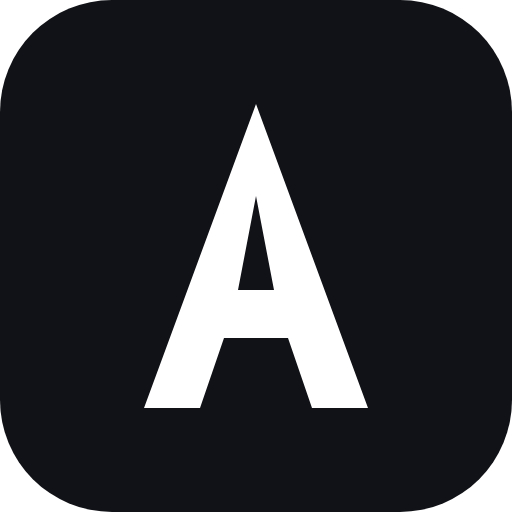
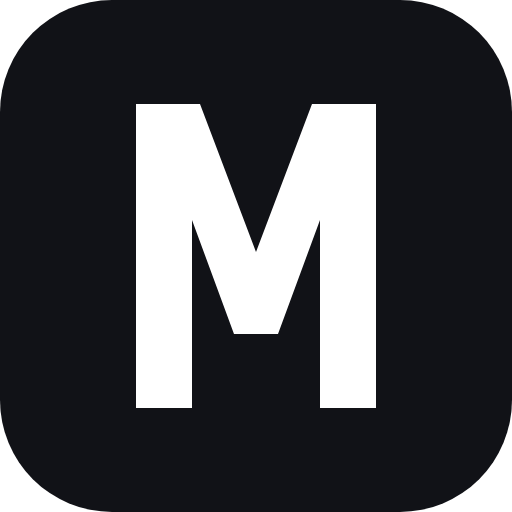
Maham Tasks: rename the task portal from Almailgroup to Maham Tasks
Every name people see: the page titles and installed-app name, the brand
in the header and sign-in pages (مهام تاسكس in Arabic, under Maham One),
the letter mark and icons (an M in the same style as the A), the assistant
(Maham AI), push and Telegram messages, admin alerts, the authenticator
entry for new two-step setups, the AI Worker's prompt and the README.

Storage keys, cookie and header names, the Worker's name and the
environment variable names stay as they were, so nobody loses saved
settings or offline work. The service worker's cache is bumped so
installed apps fetch the new icons.

Claude-Session: https://claude.ai/code/session_018J5FuxQiAhfQ43VxPpANvw

Changed region(s): [[0.25, 0.1875, 0.75, 0.8125]]

diff --git a/Maham Tasks/src/lib/i18n/ar.ts b/Maham Tasks/src/lib/i18n/ar.ts
@@ -10,8 +10,8 @@ import type { Dictionary } from "./index";
  */
 export const ar: Dictionary = {
   // ---- shell ---------------------------------------------------------------
-  "shell.brand": "المجموعة الأهلية",
-  "shell.tagline": "بوابة المهام",
+  "shell.brand": "مهام تاسكس",
+  "shell.tagline": "مهام ون",
   "shell.skip": "الانتقال إلى المحتوى",
   "shell.language": "اللغة",
   "shell.search": "بحث",
@@ -59,7 +59,7 @@ export const ar: Dictionary = {
   "nav.noProjects": "لا توجد مشاريع بعد.",
   "nav.createFirstProject": "أنشئ مشروعك الأول للبدء.",
   "nav.selectProject": "اختر مشروعاً",
-  "nav.assistant": "Almail AI",
+  "nav.assistant": "Maham AI",
   "nav.assistantHint": "اسأل عن مهامك",
 
   // ---- command palette --------------------------------------------------------
@@ -225,7 +225,7 @@ export const ar: Dictionary = {
 
   // ---- sign in, sign up, passwords ------------------------------------------------------
   "auth.login.title": "تسجيل الدخول",
-  "auth.login.subtitle": "ادخل إلى مساحة عمل المجموعة الأهلية.",
+  "auth.login.subtitle": "ادخل إلى مساحة عمل مهام تاسكس.",
   "auth.login.prompt": "ليس لديك حساب بعد؟ اطلب من المسؤول إضافتك.",
   "auth.forgot.title": "إعادة تعيين كلمة المرور",
   "auth.forgot.subtitle": "سنرسل إليك رابطاً عبر البريد الإلكتروني لتعيين كلمة مرور جديدة.",
@@ -264,7 +264,7 @@ export const ar: Dictionary = {
 
   // ---- landing page -------------------------------------------------------------------
   "landing.title": "بوابة إدارة المهام",
-  "landing.blurb": "المشاريع والمهام والتعاون الفوري لفرق المجموعة الأهلية — مبنية على Next.js وSupabase بواجهة أحادية اللون عن قصد.",
+  "landing.blurb": "المشاريع والمهام والتعاون الفوري لفرقك — مبنية على Next.js وSupabase بواجهة أحادية اللون عن قصد.",
   "landing.taskStatus": "حالات المهام",
   "landing.priorityScale": "سلّم الأولويات",
   "landing.setup": "الإعداد",
@@ -779,15 +779,15 @@ export const ar: Dictionary = {
   "assistant.starter.summary": "أعطني ملخص الحالة",
   "assistant.subtitle": "إجابات من المهام التي يمكنك رؤيتها",
   "assistant.clear": "مسح المحادثة",
-  "assistant.close": "إغلاق Almail AI",
+  "assistant.close": "إغلاق Maham AI",
   "assistant.backToNav": "العودة إلى القائمة",
   "assistant.placeholder": "اسأل عن مهامك…",
-  "assistant.ask": "اسأل Almail AI",
+  "assistant.ask": "اسأل Maham AI",
   "assistant.send": "إرسال",
   "assistant.welcome": "اسألني عن وضع العمل. أقرأ اللوحة نفسها التي تراها، لذا لا أخبرك إلا عن المهام التي لديك صلاحية الوصول إليها.",
   "assistant.youAsked": "سألت: ",
-  "assistant.answered": "أجاب Almail AI: ",
-  "assistant.thinking": "Almail AI يجيب الآن",
+  "assistant.answered": "أجاب Maham AI: ",
+  "assistant.thinking": "Maham AI يجيب الآن",
   "assistant.unreachable": "تعذّر الوصول إلى الخادم. تحقق من اتصالك واسألني مرة أخرى.",
   "brain.noTasks": "لا توجد مهام يمكنني رؤيتها بعد. عندما يُسند إليك عمل سيظهر هنا ويمكنني متابعته.",
   "brain.nothingOverdue": "لا شيء متأخر. كل مهمة لها تاريخ استحقاق ما زالت ضمن موعدها.",
@@ -849,7 +849,7 @@ export const ar: Dictionary = {
   "brain.noDueDateCount_few": "{n} مهام مفتوحة بلا تاريخ استحقاق.",
   "brain.noDueDateCount_many": "{n} مهمة مفتوحة بلا تاريخ استحقاق.",
   "brain.noDueDateCount_other": "{n} مهمة مفتوحة بلا تاريخ استحقاق.",
-  "brain.help": "أنا Almail AI، مساعد هذه البوابة. أرى تماماً المهام التي تراها — لا أكثر.\n\nاسألني أشياء مثل:\n• {q1}\n• {q2}\n• {q3}\n• {q4}\n• {q5}\n\nأي سؤال أكثر انفتاحاً يحتاج إلى نموذجي اللغوي، وهو غير متصل بعد.",
+  "brain.help": "أنا Maham AI، مساعد هذه البوابة. أرى تماماً المهام التي تراها — لا أكثر.\n\nاسألني أشياء مثل:\n• {q1}\n• {q2}\n• {q3}\n• {q4}\n• {q5}\n\nأي سؤال أكثر انفتاحاً يحتاج إلى نموذجي اللغوي، وهو غير متصل بعد.",
   "brain.fallback": "لا أستطيع الإجابة عن هذا بعد — نموذجي اللغوي غير متصل، لذا أتعامل حالياً مع أسئلة المتابعة التي يمكنني عدّها من اللوحة فقط.\n\nجرّب: ما المتأخر، ما المستحق اليوم، على ماذا أعمل تالياً، ما الذي قيد المراجعة، أو ملخص الحالة.",
   "brain.noDueDate": "بدون تاريخ استحقاق",
   "brain.due": "تستحق {date}",
@@ -964,7 +964,7 @@ export const ar: Dictionary = {
   "auth.serviceDown": "خدمة تسجيل الدخول لا تستجيب حالياً. لا خطأ في بياناتك — انتظر لحظة وحاول مرة أخرى.",
   "action.noPermissionReschedule": "ليست لديك صلاحية إعادة جدولة هذه المهمة.",
 
-  "brain.helpOffline": "أنا Almail AI، مساعد هذه البوابة. أرى تماماً المهام التي تراها — لا أكثر.\n\nاسألني أشياء مثل:\n• {q1}\n• {q2}\n• {q3}\n• {q4}\n• {q5}\n\nتعذّر الوصول إلى نموذجي اللغوي الآن، لذا سينتظر أي سؤال أكثر انفتاحاً لحظة.",
+  "brain.helpOffline": "أنا Maham AI، مساعد هذه البوابة. أرى تماماً المهام التي تراها — لا أكثر.\n\nاسألني أشياء مثل:\n• {q1}\n• {q2}\n• {q3}\n• {q4}\n• {q5}\n\nتعذّر الوصول إلى نموذجي اللغوي الآن، لذا سينتظر أي سؤال أكثر انفتاحاً لحظة.",
   "brain.fallbackOffline": "تعذّر الوصول إلى نموذجي اللغوي الآن، لذا لا يمكنني الإجابة إلا عمّا أستطيع عدّه من اللوحة.\n\nجرّب: ما المتأخر، ما المستحق اليوم، على ماذا أعمل تالياً، ما الذي قيد المراجعة، أو ملخص الحالة — أو اسألني مرة أخرى بعد قليل.",
 
   // ---- what the assistant proposes -------------------------------------------------------
@@ -1167,7 +1167,7 @@ export const ar: Dictionary = {
   "cal.holiday": "عطلة: {name}",
   // ---- two-step sign-in -----------------------------------------------------------------
   "auth.twoStep.title": "أدخل الرمز",
-  "auth.twoStep.subtitle": "افتح تطبيق المصادقة واكتب الرمز المكوّن من ستة أرقام الظاهر لـ Almailgroup.",
+  "auth.twoStep.subtitle": "افتح تطبيق المصادقة واكتب الرمز المكوّن من ستة أرقام الظاهر لـ Maham Tasks (باسم Almailgroup إن أعددته قبل تغيير الاسم).",
   "auth.twoStep.code": "رمز من ستة أرقام",
   "auth.twoStep.confirm": "تأكيد",
   "auth.twoStep.lostPhone": "لا يمكنك الوصول إلى هاتفك؟ اطلب المساعدة من مدير النظام، أو",

diff --git a/Maham Tasks/src/lib/i18n/en.ts b/Maham Tasks/src/lib/i18n/en.ts
@@ -7,8 +7,8 @@
  */
 export const en = {
   // ---- shell ---------------------------------------------------------------
-  "shell.brand": "Almailgroup",
-  "shell.tagline": "Task Portal",
+  "shell.brand": "Maham Tasks",
+  "shell.tagline": "Maham One",
   "shell.skip": "Skip to content",
   "shell.language": "Language",
   "shell.search": "Search",
@@ -56,7 +56,7 @@ export const en = {
   "nav.noProjects": "No projects yet.",
   "nav.createFirstProject": "Create your first project to get started.",
   "nav.selectProject": "Select project",
-  "nav.assistant": "Almail AI",
+  "nav.assistant": "Maham AI",
   "nav.assistantHint": "Ask about your tasks",
 
   // ---- command palette --------------------------------------------------------
@@ -214,7 +214,7 @@ export const en = {
 
   // ---- sign in, sign up, passwords ------------------------------------------------------
   "auth.login.title": "Sign in",
-  "auth.login.subtitle": "Access your Almailgroup workspace.",
+  "auth.login.subtitle": "Access your Maham Tasks workspace.",
   "auth.login.prompt": "No account yet? Ask your admin to add you.",
   "auth.forgot.title": "Reset your password",
   "auth.forgot.subtitle": "We will email you a link to set a new one.",
@@ -253,7 +253,7 @@ export const en = {
 
   // ---- landing page -------------------------------------------------------------------
   "landing.title": "Task Management Portal",
-  "landing.blurb": "Projects, tasks and real-time collaboration for Almailgroup teams — built on Next.js, Supabase and a deliberately monochrome interface.",
+  "landing.blurb": "Projects, tasks and real-time collaboration for your teams — built on Next.js, Supabase and a deliberately monochrome interface.",
   "landing.taskStatus": "Task status",
   "landing.priorityScale": "Priority scale",
   "landing.setup": "Setup",
@@ -728,15 +728,15 @@ export const en = {
   "assistant.starter.summary": "Give me a status summary",
   "assistant.subtitle": "Answers from the tasks you can see",
   "assistant.clear": "Clear conversation",
-  "assistant.close": "Close Almail AI",
+  "assistant.close": "Close Maham AI",
   "assistant.backToNav": "Back to navigation",
   "assistant.placeholder": "Ask about your tasks…",
-  "assistant.ask": "Ask Almail AI",
+  "assistant.ask": "Ask Maham AI",
   "assistant.send": "Send",
   "assistant.welcome": "Ask me where the work stands. I read the same board you do, so I can only tell you about tasks you already have access to.",
   "assistant.youAsked": "You asked: ",
-  "assistant.answered": "Almail AI answered: ",
-  "assistant.thinking": "Almail AI is thinking",
+  "assistant.answered": "Maham AI answered: ",
+  "assistant.thinking": "Maham AI is thinking",
   "assistant.unreachable": "I could not reach the server. Check your connection and ask me again.",
   "brain.noTasks": "There are no tasks I can see yet. Once work is assigned to you it will show up here and I can track it.",
   "brain.nothingOverdue": "Nothing is overdue. Every task with a due date is still inside it.",
@@ -766,7 +766,7 @@ export const en = {
   "brain.noAssigneeCount_other": "{n} open tasks have no assignee.",
   "brain.noDueDateCount_one": "{n} open task has no due date.",
   "brain.noDueDateCount_other": "{n} open tasks have no due date.",
-  "brain.help": "I am Almail AI, the assistant for this portal. I can see exactly the tasks you can see — no more.\n\nAsk me things like:\n• {q1}\n• {q2}\n• {q3}\n• {q4}\n• {q5}\n\nAnything more open-ended needs my language model, which is not connected yet.",
+  "brain.help": "I am Maham AI, the assistant for this portal. I can see exactly the tasks you can see — no more.\n\nAsk me things like:\n• {q1}\n• {q2}\n• {q3}\n• {q4}\n• {q5}\n\nAnything more open-ended needs my language model, which is not connected yet.",
   "brain.fallback": "I cannot answer that one yet — my language model is not connected, so for now I only handle the tracking questions I can count from the board.\n\nTry: what is overdue, what is due today, what should I work on next, what is in review, or a status summary.",
   "brain.noDueDate": "no due date",
   "brain.due": "due {date}",
@@ -883,7 +883,7 @@ export const en = {
 
   // Said when the model is wired up but did not answer this time — as opposed
   // to brain.fallback, which is for a workspace that never connected one.
-  "brain.helpOffline": "I am Almail AI, the assistant for this portal. I can see exactly the tasks you can see — no more.\n\nAsk me things like:\n• {q1}\n• {q2}\n• {q3}\n• {q4}\n• {q5}\n\nI could not reach my language model just now, so anything more open-ended will have to wait a moment.",
+  "brain.helpOffline": "I am Maham AI, the assistant for this portal. I can see exactly the tasks you can see — no more.\n\nAsk me things like:\n• {q1}\n• {q2}\n• {q3}\n• {q4}\n• {q5}\n\nI could not reach my language model just now, so anything more open-ended will have to wait a moment.",
   "brain.fallbackOffline": "I could not reach my language model just now, so I can only answer what I can count from the board.\n\nTry: what is overdue, what is due today, what should I work on next, what is in review, or a status summary — or ask me again in a moment.",
 
   // ---- what the assistant proposes -------------------------------------------------------
@@ -1075,7 +1075,7 @@ export const en = {
   "cal.holiday": "Holiday: {name}",
   // ---- two-step sign-in -----------------------------------------------------------------
   "auth.twoStep.title": "Enter your code",
-  "auth.twoStep.subtitle": "Open your authenticator app and type the six-digit code it shows for Almailgroup.",
+  "auth.twoStep.subtitle": "Open your authenticator app and type the six-digit code it shows for Maham Tasks (named Almailgroup if you set it up before the name changed).",
   "auth.twoStep.code": "Six-digit code",
   "auth.twoStep.confirm": "Confirm",
   "auth.twoStep.lostPhone": "No access to your phone? Ask an admin, or",

diff --git a/Maham Tasks/src/app/layout.tsx b/Maham Tasks/src/app/layout.tsx
@@ -54,17 +54,17 @@ const notoArabic = localFont({
 
 export const metadata: Metadata = {
   title: {
-    default: "Almailgroup Task Management Portal",
-    template: "%s · Almailgroup",
+    default: "Maham Tasks",
+    template: "%s · Maham Tasks",
   },
   description:
-    "Plan, assign and track work across Almailgroup projects — projects, tasks, Kanban boards and real-time collaboration.",
-  applicationName: "Almailgroup Task Management Portal",
+    "Plan, assign and track work — projects, tasks, Kanban boards and real-time collaboration.",
+  applicationName: "Maham Tasks",
   /**
    * Installed to a home screen on iOS.
    *
    * `title` is the name under the icon, and without it iOS uses the page
-   * title — "Today · Almailgroup" or whichever page happened to be open when
+   * title — "Today · Maham Tasks" or whichever page happened to be open when
    * it was added. `default` keeps the status bar opaque and the web view
    * below it, which is what the safe-area padding elsewhere is measured
    * against; `black-translucent` would put the page under the clock and is a
@@ -72,7 +72,7 @@ export const metadata: Metadata = {
    */
   appleWebApp: {
     capable: true,
-    title: "Almailgroup",
+    title: "Maham Tasks",
     statusBarStyle: "default",
   },
 };

diff --git a/Maham Tasks/src/lib/reminders/providers.ts b/Maham Tasks/src/lib/reminders/providers.ts
@@ -16,7 +16,7 @@ import type { DeliveryResult, QueuedReminder } from "./types";
  * cannot stop the rest of the queue from going out.
  */
 
-const APP_NAME = "Almailgroup Task Portal";
+const APP_NAME = "Maham Tasks";
 
 function appUrl(): string {
   return process.env.NEXT_PUBLIC_SITE_URL ?? "";
@@ -240,7 +240,7 @@ async function sendPush(reminder: QueuedReminder): Promise<DeliveryResult> {
         keys: { p256dh: device.data.p256dh, auth: device.data.auth },
       },
       JSON.stringify({
-        title: reminder.subject ?? "Almailgroup",
+        title: reminder.subject ?? "Maham Tasks",
         body: reminder.body,
         // Straight to the thing it is about, or to the day's work.
         url: reminder.task_id ? `/tasks?filter=all&task=${reminder.task_id}` : "/today",

diff --git a/Maham Tasks/src/app/api/telegram/webhook/route.ts b/Maham Tasks/src/app/api/telegram/webhook/route.ts
@@ -32,8 +32,8 @@ type TelegramUpdate = {
 };
 
 const LINK_FIRST =
-  "Open your profile in the Almailgroup Task Portal, choose Telegram reminders, and send me the code it shows.\n\n" +
-  "افتح ملفك الشخصي في بوابة مهام Almailgroup، واختر تذكيرات تيليجرام، وأرسل لي الرمز الذي يظهر.";
+  "Open your profile in Maham Tasks, choose Telegram reminders, and send me the code it shows.\n\n" +
+  "افتح ملفك الشخصي في مهام تاسكس، واختر تذكيرات تيليجرام، وأرسل لي الرمز الذي يظهر.";
 
 const HELP =
   "Send me anything to add it to your list. The first line is the title; anything after it is the detail.\n" +

diff --git a/Maham Tasks/src/lib/reminders/admin-alerts.ts b/Maham Tasks/src/lib/reminders/admin-alerts.ts
@@ -40,8 +40,8 @@ export function alertText(digest: AlertDigest, site: string): string | null {
     minute: "2-digit",
   });
 
-  const english = [`Almailgroup Task Portal — something needs a look (since ${since}).`];
-  const arabic = ["بوابة مهام Almailgroup — هناك ما يحتاج إلى نظرة."];
+  const english = [`Maham Tasks — something needs a look (since ${since}).`];
+  const arabic = ["مهام تاسكس — هناك ما يحتاج إلى نظرة."];
 
   if (digest.faults > 0) {
     english.push(`${plural(digest.faults, "fault", "faults")}:`);

diff --git a/Maham Tasks/public/sw.js b/Maham Tasks/public/sw.js
@@ -14,7 +14,7 @@
  *
  * Bumping CACHE retires everything from the previous one on activate.
  */
-const CACHE = "almail-v2";
+const CACHE = "almail-v3";
 const OFFLINE_URL = "/offline";
 
 /** Immutable, content-hashed, and safe to serve to anybody. */
@@ -123,7 +123,7 @@ self.addEventListener("push", (event) => {
     payload = { body: event.data ? event.data.text() : "" };
   }
 
-  const title = payload.title || "Almailgroup";
+  const title = payload.title || "Maham Tasks";
   const options = {
     body: payload.body || "",
     icon: "/icon-192.png",

diff --git a/Maham Tasks/src/app/(auth)/layout.tsx b/Maham Tasks/src/app/(auth)/layout.tsx
@@ -16,7 +16,7 @@ export default async function AuthLayout({
       <header className="flex h-14 items-center justify-between px-4 sm:px-6">
         <Link href="/" className="flex items-center gap-2.5 pointer-coarse:min-h-11">
           <div className="flex size-6 items-center justify-center rounded bg-primary text-[10px] font-bold text-primary-foreground">
-            A
+            M
           </div>
           <span className="text-sm font-medium tracking-tight">{t("shell.brand")}</span>
         </Link>

diff --git a/Maham Tasks/src/app/page.tsx b/Maham Tasks/src/app/page.tsx
@@ -37,7 +37,7 @@ export default async function Home() {
         <div className="mx-auto flex h-14 w-full max-w-5xl items-center justify-between px-4 sm:px-6">
           <div className="flex items-center gap-2.5">
             <div className="flex size-6 items-center justify-center rounded bg-primary text-[10px] font-bold text-primary-foreground">
-              A
+              M
             </div>
             <span className="text-sm font-medium tracking-tight">
               {t("shell.brand")}

diff --git a/Maham Tasks/src/components/layout/app-shell.tsx b/Maham Tasks/src/components/layout/app-shell.tsx
@@ -260,7 +260,7 @@ export function AppShell({
             className="group flex items-center gap-2.5 rounded-full transition-opacity hover:opacity-80"
           >
             <span className="flex size-7 items-center justify-center rounded-full bg-primary text-[11px] font-bold text-primary-foreground">
-              A
+              M
             </span>
             <span className="flex flex-col leading-none">
               <span className="text-sm font-semibold tracking-tight">

diff --git a/Maham Tasks/src/app/globals.css b/Maham Tasks/src/app/globals.css
@@ -37,7 +37,7 @@
 }
 
 /* ---------------------------------------------------------------------------
- * Almailgroup Task Management Portal — strict monochrome design tokens.
+ * Maham Tasks — strict monochrome design tokens.
  *
  * The palette is deliberately colourless: pure white / pure black anchors with
  * the zinc ramp in between. No saturated hues are defined anywhere, so a stray

diff --git a/Maham Tasks/worker/src/index.js b/Maham Tasks/worker/src/index.js
@@ -536,7 +536,7 @@ function brief(snapshot) {
       ];
 
   return [
-    "You are the assistant inside the Almailgroup task portal. You answer questions",
+    "You are the assistant inside the Maham Tasks portal. You answer questions",
     "about where work stands, from the board below and from nothing else.",
     "",
     ...(replyIn === "ar" ? KUWAITI : ["Answer in English."]),
